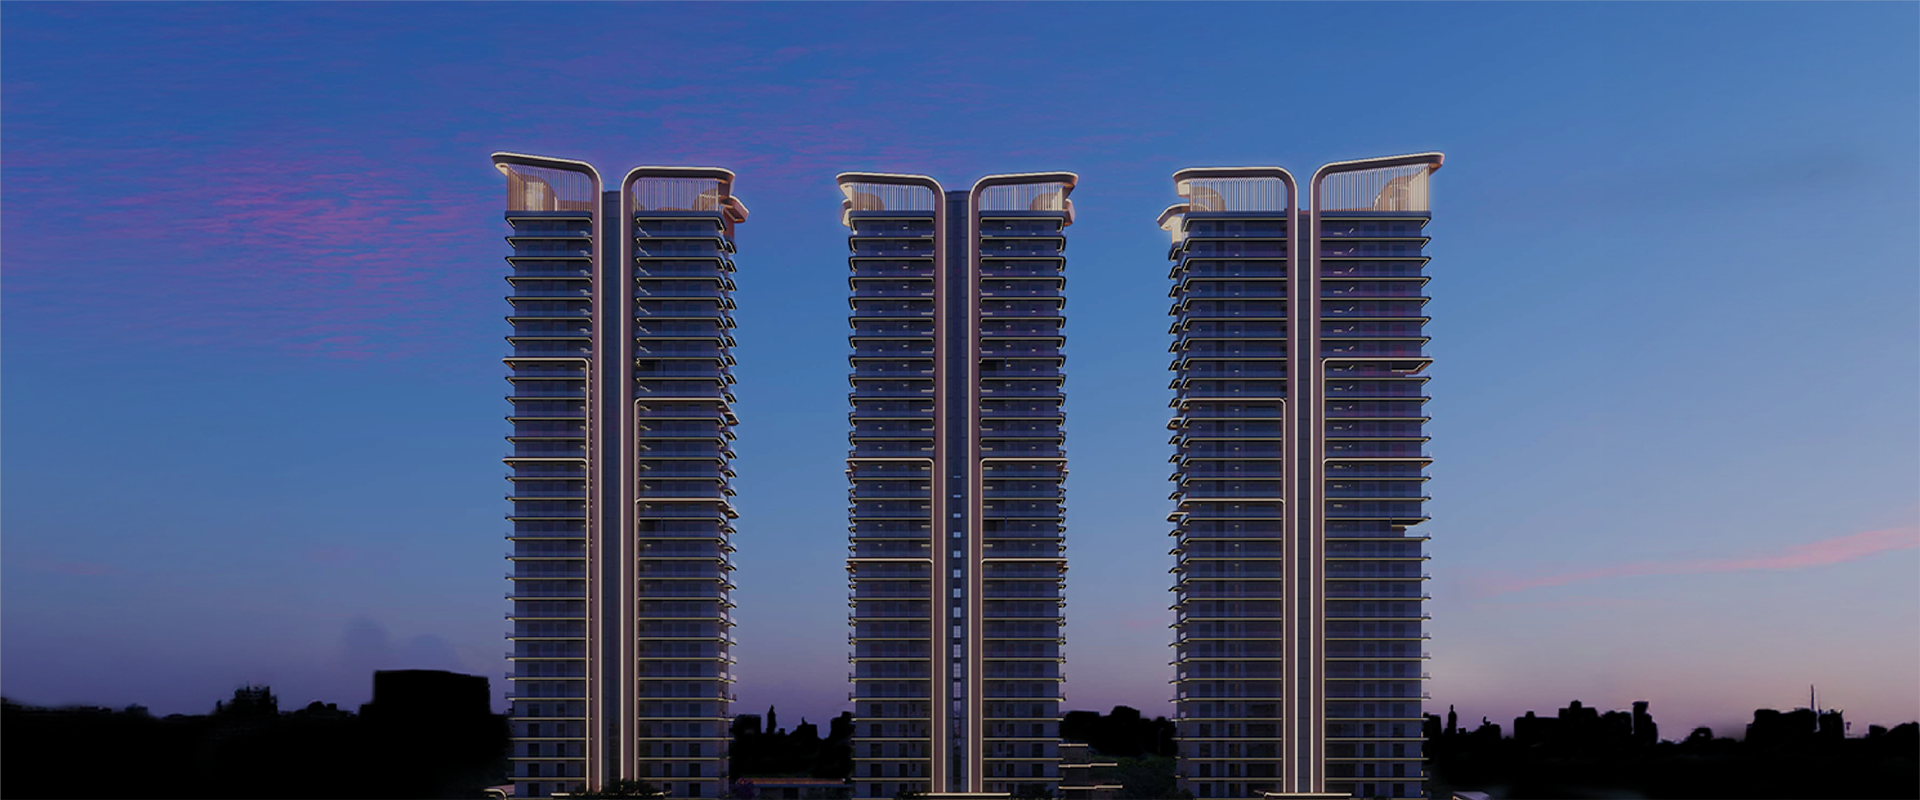
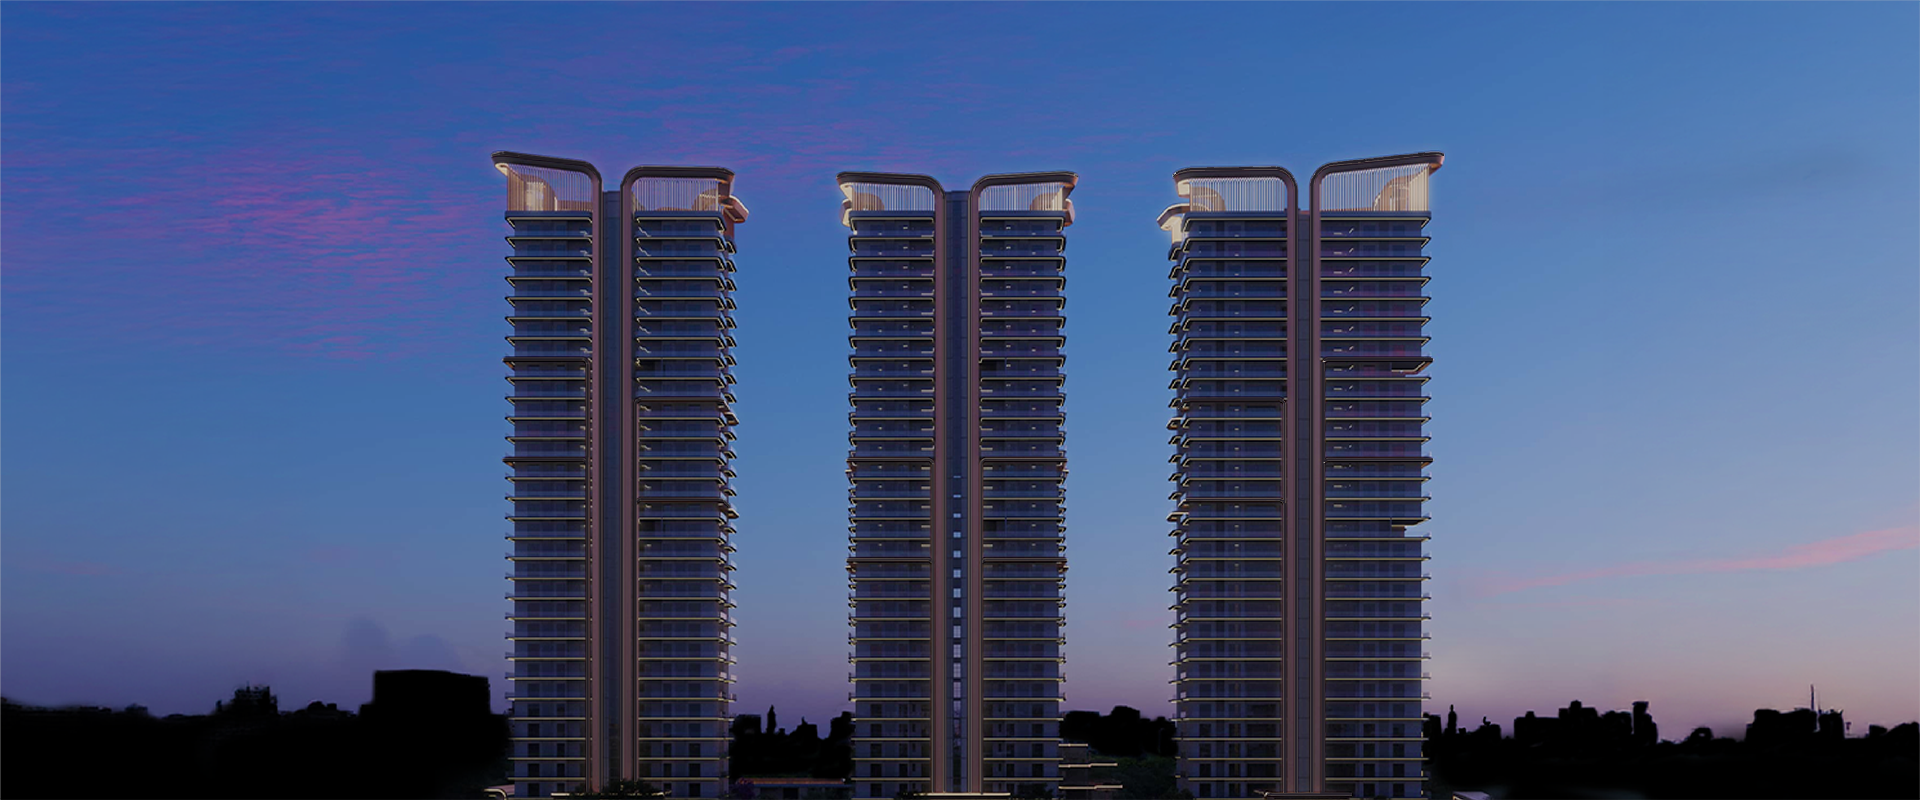
on scroll final

diff --git a/index.html b/index.html
@@ -67,6 +67,30 @@
         clip-path: url(#clippath);
       }
     </style>
+    
+    <!-- Glow Filter -->
+    <filter id="glow" x="-50%" y="-50%" width="200%" height="200%">
+      <feGaussianBlur stdDeviation="4" result="coloredBlur"/>
+      <feMerge>
+        <feMergeNode in="coloredBlur"/>
+        <feMergeNode in="coloredBlur"/>
+        <feMergeNode in="SourceGraphic"/>
+      </feMerge>
+    </filter>
+    
+    <!-- Strong Glow Filter -->
+    <filter id="strongGlow" x="-100%" y="-100%" width="300%" height="300%">
+      <feGaussianBlur stdDeviation="2" result="blur1"/>
+      <feGaussianBlur stdDeviation="6" result="blur2"/>
+      <feGaussianBlur stdDeviation="12" result="blur3"/>
+      <feMerge>
+        <feMergeNode in="blur3"/>
+        <feMergeNode in="blur2"/>
+        <feMergeNode in="blur1"/>
+        <feMergeNode in="SourceGraphic"/>
+      </feMerge>
+    </filter>
+    
     <clipPath id="clippath">
       <rect class="st0" width="1920" height="800"/>
     </clipPath>
@@ -173,6 +197,7 @@
     <!-- Ongoing Projects Section -->
     <section class="landing-projects">
         <div class="landing-projects__background"></div>
+           <img src="assets/images/landing/building.png" alt="" srcset="" class="building">
         <div class="landing-projects__content">
             <div class="landing-projects__header">
                 <div class="landing-projects__label">Ongoing Projects</div>
@@ -195,7 +220,7 @@
                 </button>
             </div>
         </div>
-        <img src="assets/images/landing/building.png" alt="" srcset="">
+     
     </section>
 
     <!-- NRI Desk Section -->

diff --git a/assets/scss/sections/_landing-banner.scss b/assets/scss/sections/_landing-banner.scss
@@ -214,14 +214,20 @@
     height: auto;
     pointer-events: none;
     z-index: 1;
+    filter: drop-shadow(0 0 8px rgba(255, 255, 255, 0.8))
+            drop-shadow(0 0 15px rgba(255, 255, 255, 0.5))
+            drop-shadow(0 0 25px rgba(255, 255, 255, 0.3));
     
-    // Ensure paths are visible
+    // Ensure paths are visible with glow
     path,
     line {
       stroke: #fff;
       fill: none;
-      stroke-width: 1;
+      stroke-width: 1.5;
       transition: stroke-dashoffset 0.3s ease-out;
+      
+      // Additional glow through stroke
+      filter: drop-shadow(0 0 4px rgba(255, 255, 255, 0.6));
     }
   }
 }

diff --git a/assets/scss/sections/_landing-overview.scss b/assets/scss/sections/_landing-overview.scss
@@ -9,7 +9,7 @@
   flex-direction: column;
   align-items: flex-start;
   justify-content: flex-end;
-  padding: 160vw 0 0 0;
+  padding: 100vw 0 0 0;
   position: relative;
   top: 100vh;
   z-index: 2;
@@ -199,3 +199,9 @@
 }
 
 
+.building {
+  position: absolute;
+  bottom: 0;
+  left: 140px;
+  z-index: 9;
+}

diff --git a/assets/js/landing-animations.js b/assets/js/landing-animations.js
@@ -54,6 +54,9 @@ if (!prefersReducedMotion) {
       path.style.strokeDashoffset = length;
       path.style.opacity = '1';
       
+      // Apply glow filter
+      path.setAttribute('filter', 'url(#strongGlow)');
+      
       pathData.push({
         element: path,
         length: length
